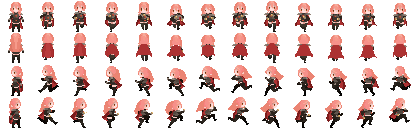
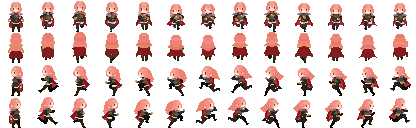
Finalização da animação do player andando, adição de grama

diff --git a/src/elements/enviroment/Grass.java b/src/elements/enviroment/Grass.java
@@ -1,0 +1,66 @@
+package elements.enviroment;
+
+import elements.Element;
+import game.GamePanel;
+import utilities.Global;
+import utilities.Sprite;
+import utilities.TextCollider;
+import world.World;
+
+import java.awt.*;
+import java.awt.geom.AffineTransform;
+import java.util.Random;
+
+public class Grass extends Element {
+    double rotation;
+    double distance = 16;
+    double rotationOffset;
+    Random random = new Random(System.nanoTime());
+
+    public Grass(GamePanel gp, World world){
+        super(gp,world);
+        rotationOffset = random.nextDouble();
+    }
+
+    @Override
+    public void setAttributes() {
+        sprite = new Sprite("/resources/elements/grass.png",32,32,1f);
+        setSize(32,32);
+        setAnchor(16,32);
+        setFeetLine(32);
+    }
+
+    @Override
+    public void update(double deltaTime) {
+        double time = System.currentTimeMillis() / 1000.0; // tempo em segundos
+        double maxAngle = 30; // ângulo máximo de oscilação
+        rotation = Math.sin(time+rotationOffset * 4) * maxAngle;
+
+        double targetRotation = Math.sin(time + rotationOffset * 2) * maxAngle;
+
+        double dx = world.player.position.x - position.x;
+        double dy = world.player.position.y - position.y;
+
+        double pDist = Math.sqrt(dx * dx + dy * dy);
+        double extraRotation = 1500 / pDist;
+        if (extraRotation > 100) extraRotation = 100;
+
+        if (dx <= 0) targetRotation += extraRotation;
+        else         targetRotation -= extraRotation;
+
+        rotation += (targetRotation - rotation) * 0.2;
+
+    }
+
+    @Override
+    public void render(Graphics2D g2d) {
+        AffineTransform original = g2d.getTransform();
+        g2d.rotate(Math.toRadians(rotation),width*anchorX* Global.SCALE + position.x - world.camera.x,height*anchorY*Global.SCALE + position.y - world.camera.y);
+        sprite.render(g2d, (int)(position.getX() - world.camera.x), (int)(position.getY() - world.camera.y),width,height);
+        g2d.setTransform(original);
+        if(gp.activeWorld.showElementsAnchor) {
+            renderAnchor(g2d);
+            renderFeetLine(g2d);
+        }
+    }
+}

diff --git a/src/world/World.java b/src/world/World.java
@@ -5,6 +5,7 @@ import elements.Element;
 import elements.entities.Player;
 import elements.entities.Slime;
 import elements.enviroment.Fence;
+import elements.enviroment.Grass;
 import elements.enviroment.Pillar;
 import elements.enviroment.Tree;
 import game.CollisionSystem;
@@ -58,24 +59,32 @@ public class World {
         this.dialogueManager = new DialogueManager(gp,this);
         this.tilePath = tilePath;
         player = new Player(this.gp,this,client,false);
+        player.setPosition(32/2*Global.TILESIZE,32/2* Global.TILESIZE);
         connectedPlayer = new Player(this.gp,this,client,true);
         connectedPlayer.setPositionByAnchor(new Vector(600,600));
         p2 = new Pillar(this.gp,this);
-        p2.setPosition(0,0);
+        p2.setPosition(1500,1500);
         dust = new Dust(this.gp,this,player);
         tree = new Tree(this.gp,this);
         fence = new Fence(this.gp,this);
         tree.setPositionByAnchor(new Vector(700,500));
         tree2 = new Tree(this.gp,this);
 
-        /*for(int i = 0; i < 100; i++){
+        for(int i = 0; i < 4; i++){
             Slime s = new Slime(gp,this,player);
             elements.add(s);
             s.setPositionByAnchor(new Vector(70*i,900));
-        }*/
+        }
 
 
-        tree2.setPositionByAnchor(new Vector(500,500));
+        for(int i = 0; i < 50 ;i++){
+            for(int j = 0;j < 50; j++){
+                Grass grass = new Grass(gp,this);
+                grass.setPositionByAnchor(new Vector(16*Global.TILESIZE + j * 7,16*Global.TILESIZE + i * 7));
+                elements.add(grass);
+            }
+        }
+        tree2.setPositionByAnchor(new Vector(1000,1900));
         fence.setPositionByAnchor(new Vector(1500,1500));
         elements.add(p2);
         elements.add(fence);

diff --git a/src/elements/entities/Player.java b/src/elements/entities/Player.java
@@ -32,7 +32,7 @@ public class Player extends Entity {
     public double maxHealth = 100;
     public double dealt = health;
 
-    boolean invulnerable = true;
+    boolean invulnerable = false;
 
     public PlayerState playerState = PlayerState.IDLE;
     KeyHandler key;
@@ -53,7 +53,7 @@ public class Player extends Entity {
         setSize((int)Global.ORIGINAL_TILESIZE,(int)Global.ORIGINAL_TILESIZE);
         setPositionByAnchor(new Vector(500,700));
         setSpeed(100);
-        sprite = new Sprite("/resources/entities/players/playersheet.png",width,height,0.9f);
+        sprite = new Sprite("/resources/entities/players/playersheet.png",width,height,0.8f);
         attack = new Sprite("/resources/entities/players/attack.png", 160, 160, 0.67f);
         shadow = new Sprite("/resources/entities/monsters/shadow.png",32,32,1f);
         collider.setBounds(this,11,26,10,6);

diff --git a/src/elements/entities/Slime.java b/src/elements/entities/Slime.java
@@ -35,7 +35,7 @@ public class Slime extends Entity{
     Vector nearestPoint = new Vector();
     Random r = new Random();
 
-    double maxVelocity = 100 * Global.SCALE;
+    double maxVelocity = 90 * Global.SCALE;
     double avoidForce = 3000;
     RayCasts rayCasts;
     Line2D.Double avoidLine = new Line2D.Double();
